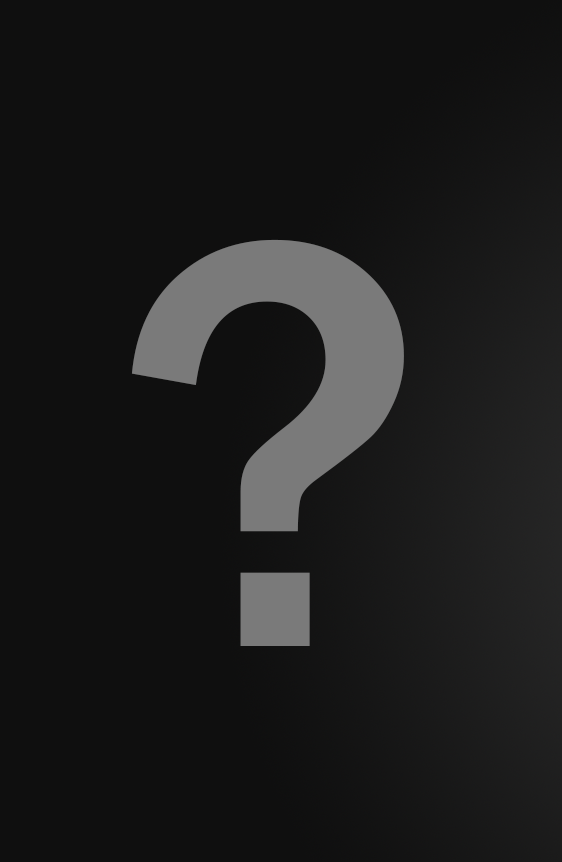
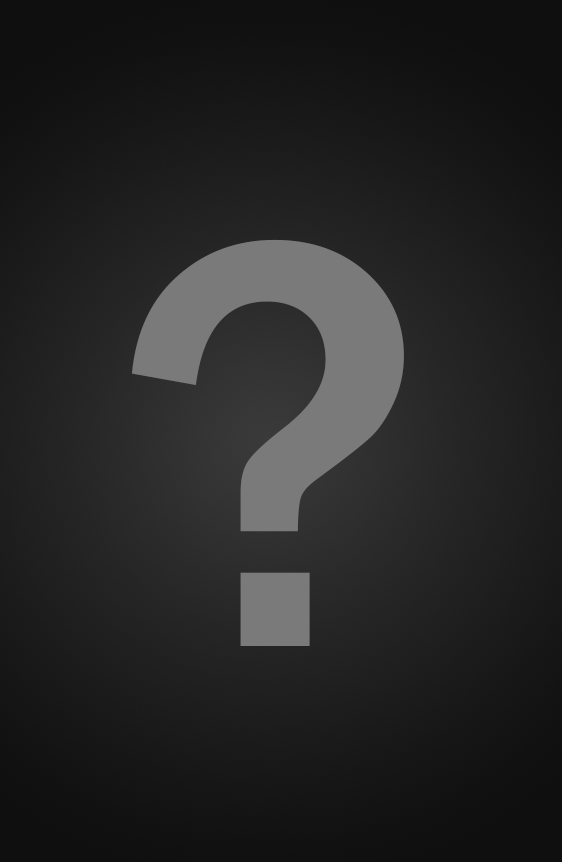
4.3.23

Changed region(s): [[0.1512, 0.3318, 0.6655, 0.7239]]

diff --git a/roverr/app/logic.py b/roverr/app/logic.py
@@ -921,10 +921,13 @@ def get_movie_data(torrents, api_key):
                 except Exception as e:
                     logger.error(f"Error re-downloading poster for {m.title}: {e}")
         
+        # Use placeholder if no poster exists
+        poster_display = m.poster_path if m.poster_path else 'posters/placeholder_unidentified.png'
+        
         movies.append({
             "title": m.title,
             "year": m.year,
-            "poster_url": m.poster_path,
+            "poster_url": poster_display,
             "backdrop_url": m.backdrop_path,
             "overview": m.overview,
             "torrent_hash": m.torrent_hash,
@@ -3423,6 +3426,10 @@ def fetch_rss_movies(limit=30):
                 if metadata.get('backdrop_path'):
                     backdrop_url = f"https://image.tmdb.org/t/p/w1280{metadata.get('backdrop_path')}"
                     backdrop_local = download_image(backdrop_url, f"{pseudo_hash}_backdrop.jpg")
+            else:
+                # TMDB not found - use placeholder
+                logger.warning(f"TMDB metadata not found for '{title}' ({year}), using placeholder")
+                poster_local = 'posters/placeholder_unidentified.png'
             
             # Create DB Entry
             Movie.create(
